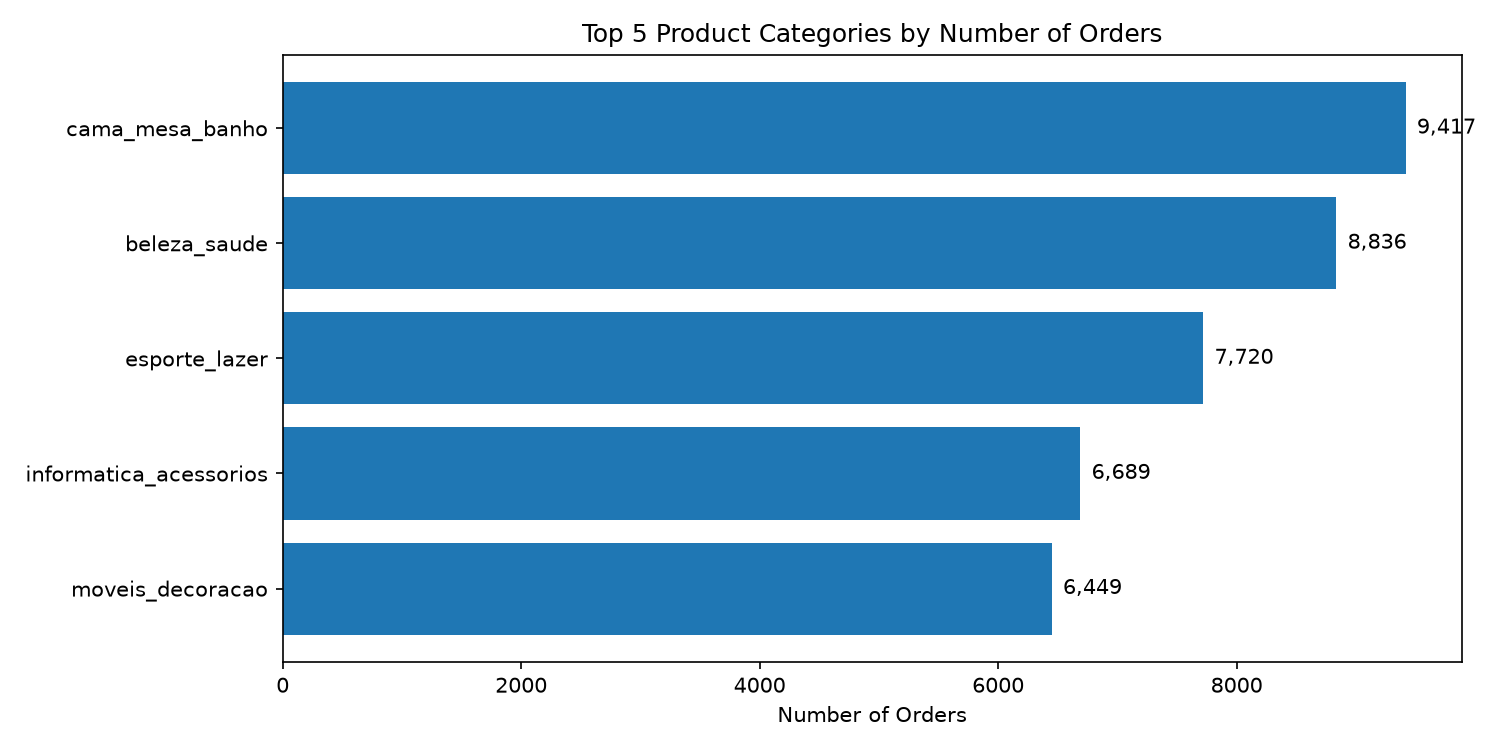
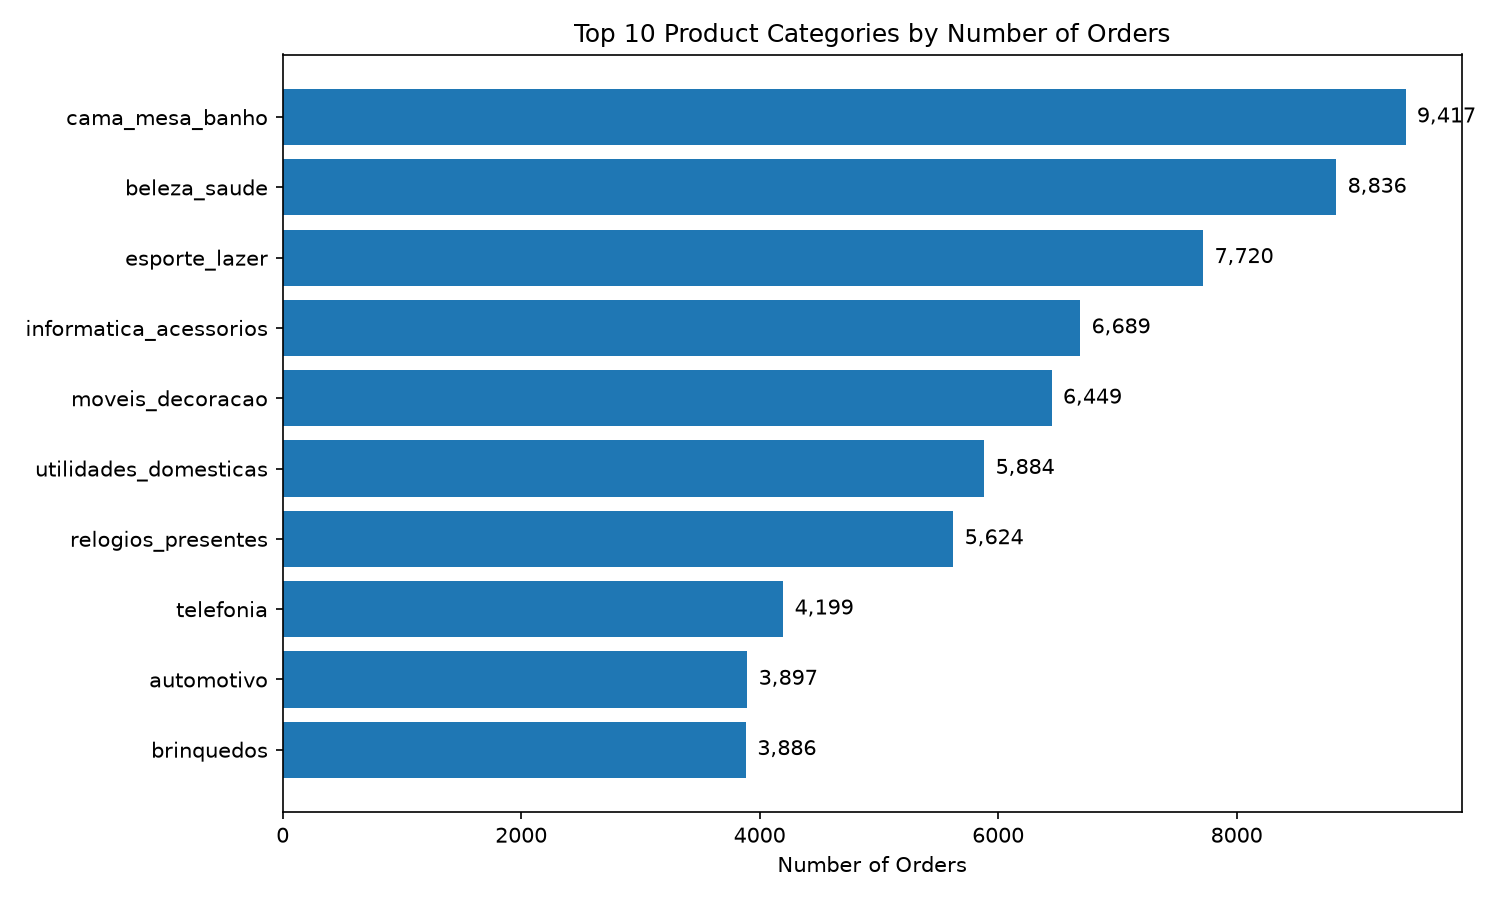
added missed file

Changed region(s): [[0.0, 0.1227, 0.9813, 0.9507], [0.184, 0.0307, 0.9813, 0.1227], [0.5213, 0.9507, 0.644, 0.9813]]

diff --git a/app.py b/app.py
@@ -1,13 +1,3 @@
-"""
-app.py — chat-native UI for the MULTI-AGENT supervisor.
-
-Ask a question → the supervisor routes it to the SQL, Pandas, Viz, or Direct
-agent → for SQL/Pandas/Viz you review the proposed query/code → it runs and answers.
-
-Run from the PROJECT ROOT:
-    streamlit run app.py
-"""
-
 import os
 import shutil
 import time
@@ -25,10 +15,6 @@ from agents import sup_graph, engine
 # ---------------------------------------------------------------------------
 st.set_page_config(page_title="Olist Analytics", page_icon="🧭", layout="wide")
 
-# ---------------------------------------------------------------------------
-# AGENTS — one accent colour each. This is the design's backbone: the colour
-# tells you which specialist answered, on the pill and on the answer.
-# ---------------------------------------------------------------------------
 AGENT = {
     "sql":    {"label": "SQL",     "icon": "🗃", "color": "#4C9AFF"},
     "pandas": {"label": "Pandas",  "icon": "🐼", "color": "#F2A93B"},
@@ -36,9 +22,6 @@ AGENT = {
     "direct": {"label": "Direct",  "icon": "💬", "color": "#B392F0"},
 }
 
-# ---------------------------------------------------------------------------
-# STYLING — indigo-slate base, Inter for UI, JetBrains Mono for code.
-# ---------------------------------------------------------------------------
 st.markdown("""
 <style>
 @import url('https://fonts.googleapis.com/css2?family=Inter:wght@400;500;600;700&family=JetBrains+Mono:wght@400;500&display=swap');
@@ -104,7 +87,7 @@ EXAMPLES = [
 # ---------------------------------------------------------------------------
 def init_state():
     defaults = {
-        "phase": "idle",              # idle -> awaiting_approval -> revising -> done/viewing
+        "phase": "idle",
         "thread_id": "ui-conv-1",
         "question": "",
         "route": "",
@@ -116,15 +99,14 @@ def init_state():
         "current_conv_id": "conv-1",
         "pending_prompt": None,
         "debug": False,
+        "last_debug": None,
     }
     for k, v in defaults.items():
         st.session_state.setdefault(k, v)
 
 init_state()
 
-# ---------------------------------------------------------------------------
-# HELPERS
-# ---------------------------------------------------------------------------
+
 def cfg():
     return {"configurable": {"thread_id": st.session_state.thread_id},
             "recursion_limit": 35}
@@ -144,8 +126,15 @@ def run_sql_preview(sql: str):
 
 def final_answer(result) -> str:
     for msg in reversed(result.get("input_text", [])):
-        if getattr(msg, "content", ""):
-            return msg.content
+        content = getattr(msg, "content", "") or ""
+        if not content:
+            continue
+        s = content.lstrip()
+        # skip the model's raw tool-call / code echoes — not real answers
+        if s.startswith(("propose_final_query", "propose_analysis_code",
+                         "propose_chart_code", "result =", "result=", "{")):
+            continue
+        return content
     return "_(no answer returned)_"
 
 def pill(route: str) -> str:
@@ -214,33 +203,28 @@ def process(result, skipped=False):
         save_turn()
         
 def show_debug(result, stage: str):
-    """Narrate one graph step so the flow is visible: what came back, where it went."""
     if not st.session_state.get("debug"):
         return
-    with st.expander(f"🔍 debug — {stage}", expanded=True):
-        interrupted = "__interrupt__" in result
-        st.markdown(
-            f"- **destination:** `{result.get('destination')}`  \n"
-            f"- **paused for review?** `{interrupted}`  \n"
-            f"- **phase now:** `{st.session_state.phase}`  \n"
-            f"- **state keys:** `{list(result.keys())}`"
-        )
-        if interrupted:
-            payload = result["__interrupt__"][0].value
-            st.caption("interrupt payload (what the agent sent up for approval):")
-            st.json(payload)
-        # the running message history — the heart of the flow
-        msgs = result.get("input_text", [])
-        st.caption(f"message history ({len(msgs)} messages):")
-        for m in msgs:
-            kind = type(m).__name__                       # HumanMessage / AIMessage / ToolMessage
-            tool_calls = getattr(m, "tool_calls", None)
-            if tool_calls:
-                calls = ", ".join(c["name"] for c in tool_calls)
-                st.markdown(f"`{kind}` → 🔧 calls: **{calls}**")
-            else:
-                content = (getattr(m, "content", "") or "")[:200]
-                st.markdown(f"`{kind}` → {content or '_(empty)_'}")
+    interrupted = "__interrupt__" in result
+    msgs = result.get("input_text", [])
+    lines = []
+    for m in msgs:
+        kind = type(m).__name__
+        tc = getattr(m, "tool_calls", None)
+        if tc:
+            lines.append(f"`{kind}` → 🔧 {', '.join(c['name'] for c in tc)}")
+        else:
+            content = (getattr(m, "content", "") or "")[:200]
+            lines.append(f"`{kind}` → {content or '_(empty)_'}")
+    st.session_state.last_debug = {
+        "stage": stage,
+        "destination": result.get("destination"),
+        "interrupted": interrupted,
+        "phase": st.session_state.phase,
+        "keys": list(result.keys()),
+        "payload": result["__interrupt__"][0].value if interrupted else None,
+        "messages": lines,
+    }
 
 def ask(prompt: str):
     st.session_state.question = prompt
@@ -255,9 +239,7 @@ def ask(prompt: str):
 def artifact_lang() -> str:
     return "python" if st.session_state.route in ("pandas", "viz") else "sql"
 
-# ---------------------------------------------------------------------------
-# SIDEBAR
-# ---------------------------------------------------------------------------
+
 with st.sidebar:
     st.markdown("### 🧭 Olist Analytics")
     st.markdown(f"- **thread_id:** `{st.session_state.thread_id}`")
@@ -291,12 +273,10 @@ with st.sidebar:
             st.dataframe(pd.DataFrame(columns, columns=["column", "type"]),
                          hide_index=True, use_container_width=True)
 
-# ---------------------------------------------------------------------------
-# MAIN — transcript, then the live phase, then the input.
-# ---------------------------------------------------------------------------
+
 current = st.session_state.conversations[st.session_state.current_conv_id]
 
-# ---- empty state -----------------------------------------------------------
+
 if not current["messages"] and st.session_state.phase in ("idle", "viewing"):
     st.markdown(
         '<div class="hero"><h2>Ask anything about the Olist data</h2>'
@@ -310,7 +290,6 @@ if not current["messages"] and st.session_state.phase in ("idle", "viewing"):
             st.session_state.pending_prompt = ex
             st.rerun()
 
-# ---- transcript of completed turns ----------------------------------------
 for msg in current["messages"]:
     with st.chat_message("user"):
         st.markdown(msg["q"])
@@ -324,7 +303,7 @@ for msg in current["messages"]:
             with st.expander(f"View {'code' if lang == 'python' else 'SQL'}"):
                 st.code(msg["artifact"], language=lang)
 
-# ---- live turn: an approval or revise in progress -------------------------
+
 if st.session_state.phase in ("awaiting_approval", "revising"):
     with st.chat_message("user"):
         st.markdown(st.session_state.question)
@@ -338,7 +317,7 @@ if st.session_state.phase in ("awaiting_approval", "revising"):
 
         payload = st.session_state.interrupt_payload
 
-        # ----- approval card ------------------------------------------------
+       
         if st.session_state.phase == "awaiting_approval":
             if "proposed_sql" in payload:
                 st.session_state.artifact = payload["proposed_sql"]
@@ -378,6 +357,7 @@ if st.session_state.phase in ("awaiting_approval", "revising"):
                 show_debug(result, "after approve") 
                 st.rerun()
             if c2.button("✏ Revise", use_container_width=True):
+                
                 st.session_state.phase = "revising"
                 st.rerun()
             if c3.button("⏭ Skip", use_container_width=True):
@@ -386,7 +366,6 @@ if st.session_state.phase in ("awaiting_approval", "revising"):
                 show_debug(result, "after skip") 
                 st.rerun()
 
-        # ----- revise form --------------------------------------------------
         else:
             st.markdown("**Revise the plan** — tell the agent what to change")
             st.code(st.session_state.artifact, language=artifact_lang())
@@ -399,14 +378,12 @@ if st.session_state.phase in ("awaiting_approval", "revising"):
             if send and notes:
                 with st.spinner("Revising…"):
                     result = sup_graph.invoke(
-                        Command(resume={"action": "revise", "notes": notes}), cfg())
+                        Command(resume={"action": "revise", "notes": notes}), cfg()
+                    )
                 process(result)
                 show_debug(result, "after revise")
                 st.rerun()
 
-# ---------------------------------------------------------------------------
-# INPUT — always present; disabled while a review is open.
-# ---------------------------------------------------------------------------
 busy = st.session_state.phase in ("awaiting_approval", "revising")
 typed = st.chat_input(
     "Finish the review above first…" if busy else "Ask about the Olist data…",
@@ -415,6 +392,23 @@ typed = st.chat_input(
 
 prompt = typed or st.session_state.pending_prompt
 st.session_state.pending_prompt = None
-if prompt and not busy:
+if prompt and st.session_state.phase in ("idle", "done", "viewing"):
     ask(prompt)
     st.rerun()
+    
+
+if st.session_state.debug and st.session_state.get("last_debug"):
+    d = st.session_state.last_debug
+    with st.expander(f"🔍 debug — {d['stage']}", expanded=True):
+        st.markdown(
+            f"- **destination:** `{d['destination']}`  \n"
+            f"- **paused for review?** `{d['interrupted']}`  \n"
+            f"- **phase now:** `{d['phase']}`  \n"
+            f"- **state keys:** `{d['keys']}`"
+        )
+        if d["payload"]:
+            st.caption("interrupt payload:")
+            st.json(d["payload"])
+        st.caption(f"message history ({len(d['messages'])} messages):")
+        for line in d["messages"]:
+            st.markdown(line)
